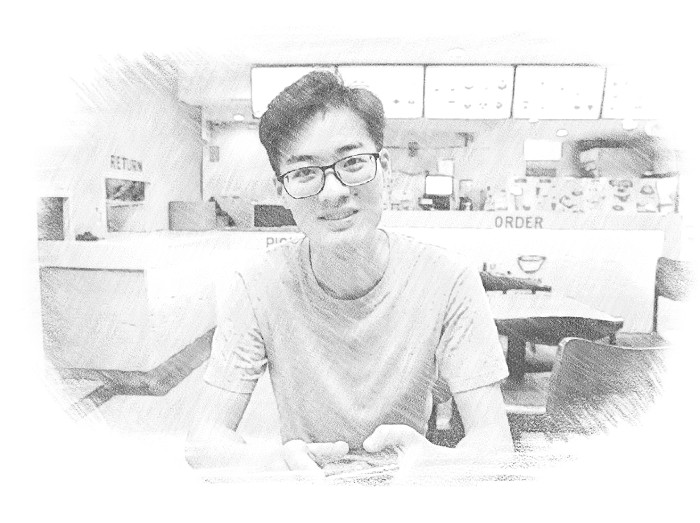
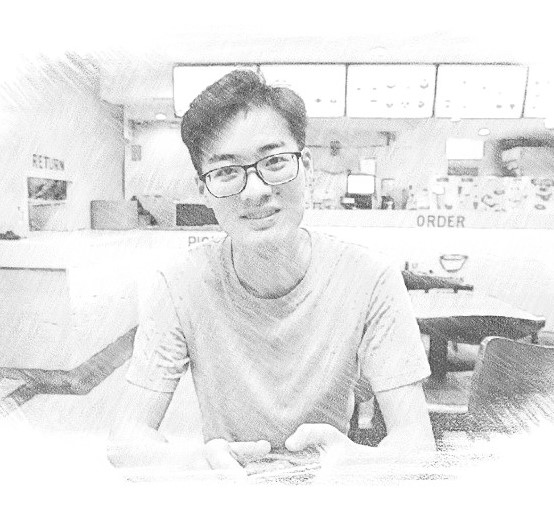
Update photo and clear.

diff --git a/index.html b/index.html
@@ -31,16 +31,10 @@ BODY {
 	FONT-FAMILY: "Consolas", Helvetica, sans-serif
 }
 
+a{color: #224b8d;
+    text-decoration: none; }
+a:hover{text-decoration: underline; color: #880000;}
 
-a:link {
-	color: #0000FF;
-	text-decoration : none;
-}
-
-a:visited {
-	color: #0000FF;
-	text-decoration : none;
-}
 
 
 .style_link1{
@@ -77,7 +71,7 @@ a:visited {
 <BODY windowc_onresizez="true">
 
 
-<hr width="1200" size="5" noshade>
+<!--<hr width="1200" size="5" noshade>-->
 
 <!--============================================================================================-->
 <!--=========================================Information========================================-->
@@ -85,19 +79,16 @@ a:visited {
 <TABLE width="1200" height=210 border=0 align="center" >
   <TBODY>
   <TR>
-
-
-
     <TD height=210 width=60>&nbsp;</TD>
 	  <TD>
 		  <p align="center">
              <a href="https://www.nju.edu.cn" target="_blank">
-                <img class="icon" src="image/nju.jpg" alt="NJU" title="NJU" height="70" width="70" />
+                <img class="icon" src="image/nju.jpg" alt="NJU" title="NJU" height="70" width="56" />
             </a>
         </p>
 		  <p align="center">
             <a href="http://www.cuhk.edu.hk" target="_blank">
-                <img class="icon" src="image/cuhk.png" alt="CUHK" title="CUHK" height="70" width="70" />
+                <img class="icon" src="image/cuhk.png" alt="CUHK" title="CUHK" height="70" width="88" />
             </a>
         </p>
 	  </TD>
@@ -123,7 +114,7 @@ a:visited {
     <TD vAlign=top width=333>
 		<p align="center">
 			<a href="https://xinyandai.github.io/" target=_blank>
-				<img src="image/remove_xinyan.jpg" width=187 height=140 border=0 align="top">
+				<img src="image/removeme_xinyan.jpg" width=145 height=140 border=0 align="top">
 			</a>
 		</p>
         <p align="center">
@@ -145,36 +136,11 @@ a:visited {
   </TBODY>
 </TABLE>
 
-<HR SIZE=5 width="1200" noshade>
+<br/>
+<br/>
 
 <TABLE width="1200" border=0 align="center">
-<td class=style_link1>
-	[<a href="#Biography">Biography</a>]
-	[<a href="#Interest">Interest</a>]
-	[<a href="#Projects">Projects</a>]
-	[<a href="#Datasets">Datasets</a>]
-	[<a href="#Publications">Publications</a>]
-	[<a href="#Correspondence">Correspondence</a>]
-</td>
-</TABLE>
 
-<HR SIZE=5 width="1200" noshade>
-<TABLE width="1200" border=0 align="center">
-	<!--============================================================================================-->
-	<!--==========================================Supervisor========================================-->
-	<!--============================================================================================-->
-
-	<tr>
-		<td class=style_link1>
-			<a name="Supervisor"></a>Supervisor:
-			<hr width="1200" size="1" noshade>
-		</td>
-	</tr>
-		<tr>
-			<td class=style_second>
-					<p>Associate Professor <a href="http://www.cse.cuhk.edu.hk/~jcheng/">James Cheng</a></p>
-			</td>
-		</tr>
 
 	<!--============================================================================================-->
 	<!--==========================================Biography=========================================-->
@@ -456,12 +422,19 @@ a:visited {
   </TR>
   </TBODY>
 </TABLE>
-<!--<a href="https://www.easycounter.com/">-->
-<!--<img src="https://www.easycounter.com/counter.php?xinyan"-->
-<!--border="0" alt="Hit Counters"></a>-->
-<!--<br><a href="https://www.easycounter.com/">HTML Counter</a>-->
+<TABLE>
+  <TBODY>
+  <TR>
+	  <a href="https://www.easycounter.com/">
+		<img src="https://www.easycounter.com/counter.php?xinyan"
+		border="0" alt="Hit Counters"></a>
+	  <br>
+	  <a href="https://www.easycounter.com/">unique visitors since May 2019</a>
+  </TR>
+  </TBODY>
+</TABLE>
 
-<!--<hr width="1200" size="3" noshade>-->
+
 </BODY>
 
 
